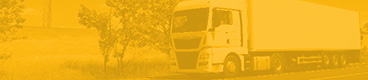
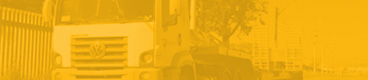
new images

diff --git a/app/index.html b/app/index.html
@@ -46,7 +46,7 @@
             <nav class="menu-topo">
                 <a href="index.html">home</a>
                 <a href="quem-somos.html">quem somos</a>
-                <a href="servicos.html">servicos</a>
+                <a href="servicos.html">serviços</a>
                 <a href="orcamento.html">orçamento</a>
                 <a href="contato.html">contato</a>
             </nav>
@@ -58,7 +58,7 @@
 
     <main class="banners">
       <div class="slider">
-        <div style="background-image: url('./images/slide1.png');">
+        <div style="background-image: url('./images/banner-home.jpg');">
 
         </div>
       </div>
@@ -66,7 +66,9 @@
 
     <section class="bemvindo">
       <div class="container">
-        <p>Somos a Rodagro, especialistas há mais de 10 anos no transporte de maquinários e implementos agrícolas, especialmente colheitadeiras e tratores, para todo o território brasileiro. Seja bem-vindo!</p>
+        <p>
+        Somos a Rodagro, especialistas há mais de 10 anos no transporte de máquinas para construção civil, indústria e agricultura, referência tanto no mercado brasileiro como no mercado internacional. <br>Seja bem-vindo!
+        </p>
       </div>
     </section>
 
@@ -76,12 +78,20 @@
         <ul>
           <li>
             <a href="javascript:;" style="background-image: url(./images/transporte-colheitadeira.jpg);">
-              <h3>Transporte <br>de Colhetadeira</h3>
+              <h3>
+                transporte de máquinas
+                <br>
+                de grande porte
+              </h3>
             </a>
           </li>
           <li>
             <a href="javascript:;" style="background-image: url(./images/transporte-tratores.jpg);">
-              <h3>Transporte <br>de Tratores</h3>
+              <h3>
+                  transporte de máquinas
+                  <br>
+                  de médio porte
+              </h3>
             </a>
           </li>
           <li>
@@ -96,13 +106,15 @@
     <section class="orcamento">
       <div class="container">
         <h2>Peça um Orçamento</h2>
-        <p>Solicite o seu orçamento preenchendo os campos do formulário abaixo e aguarde. Responderemos sua solicitação o mais breve possível.</p>
+        <p>
+          Solicite o seu orçamento, preenchendo os campos do formulário abaixo e aguarde. Responderemos a sua solicitação o mais breve possível.
+        </p>
         <form action="post-orcamento" method="POST" name="formOrcamento">
-          <input type="text" name="nome" placeholder="Nome Completo">
-          <input type="text" name="telefone" placeholder="Telefone">
+          <input type="text" name="nome" placeholder="Nome da Empresa">
+          <input type="text" name="telefone" placeholder="Fone">
           <input type="email" name="email" placeholder="E-mail">
-          <input type="text" name="empresa" placeholder="Empresa">
-          <input type="text" name="servico" placeholder="Produto ou Servico">
+          <input type="text" name="empresa" placeholder="Contato">
+          <input type="text" name="servico" placeholder="Serviço Desejado.">
           <textarea name="mensagem" style="resize: none;" rows="5" placeholder="Digite sua mensagem"></textarea>
           <input type="submit" class="btn" value="Pedir Orçamento">
         </form>
@@ -114,7 +126,11 @@
         <div class="col-md-4 col-xs-12">
           <img src="images/logo-footer.png" alt="" class="logo-footer">
           <br>
-          <p>Estrada Major Mauricio Souza Carpes, s/n. <br> Montenegro/RS - CEP 95780-970</p>
+          <p>
+            Rua Pirapó, 1400 - Canoas/RS, Brasil
+            <br>
+            CEP 92410-240
+          </p>
         </div>
         <div class="col-md-4 col-xs-12">
           <ul class="contato-lista">

diff --git a/app/styles/main.scss b/app/styles/main.scss
@@ -49,13 +49,15 @@ p{
     flex-direction: column
   }
   a{
-    text-align: center;
-    flex: 1 1 100%;
-    text-decoration: underline;
-    text-transform: uppercase;
-    font-size: 16px;
+    /*border: 1px solid red;*/
+    height: 40px;
     color: #666;
-    padding: 16px;
+    flex: 1 1 100%;
+    font-size: 16px;
+    margin: 0;
+    padding: 0;
+    text-align: center;
+    text-transform: uppercase;
   }
 }
 .header {
@@ -204,8 +206,9 @@ footer{
   background-color: #3a3a3b;
   color: #FFF;
   p{
-    max-width: 320px;
+    max-width: 340px;
     margin: 0 auto;
+    font-size: 12px;
   }
 }
 .menu {
